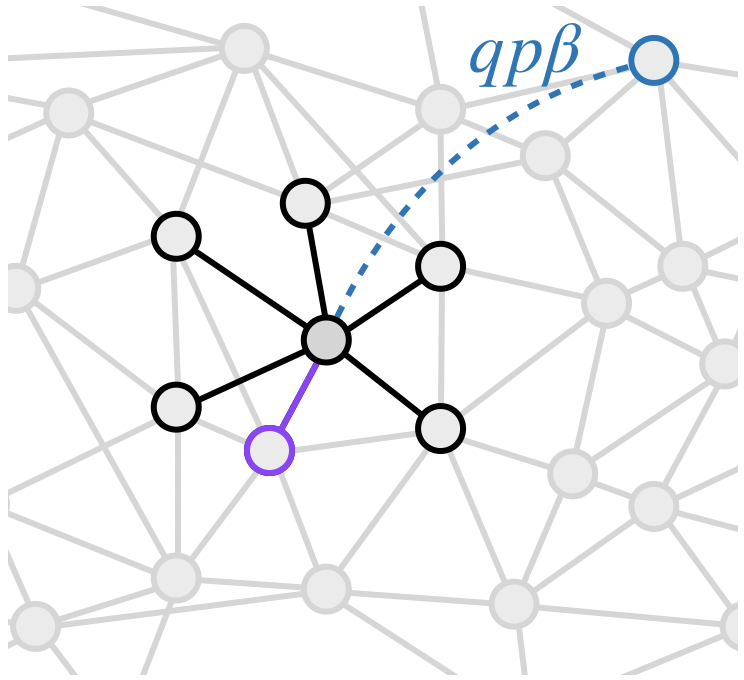
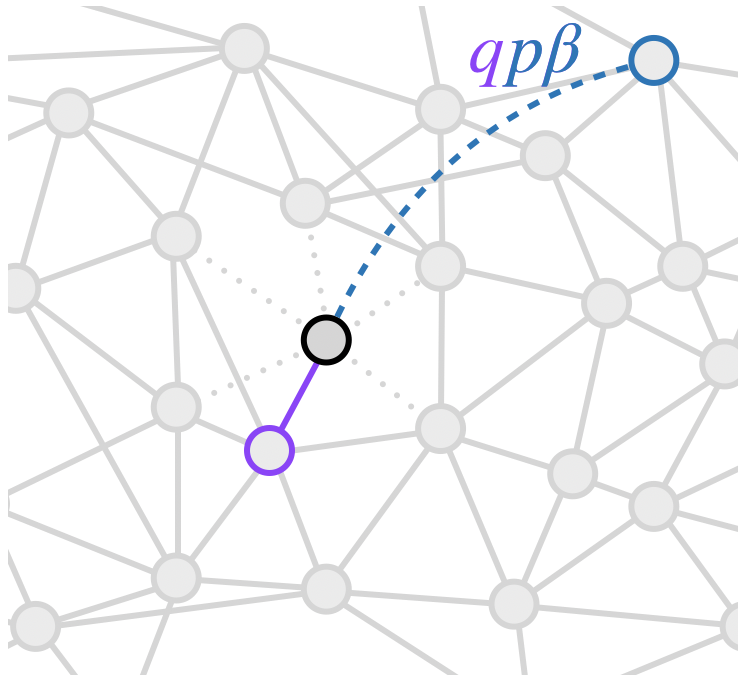
SEIR diagram images

diff --git a/seirsplus/models.py b/seirsplus/models.py
@@ -43,10 +43,10 @@ class SEIRSNetworkModel():
                     (all remaining nodes initialized susceptible)   
     """
 
-    def __init__(self, G, beta, sigma, gamma, xi=0, mu_I=0, mu_0=0, nu=0, p=1,
+    def __init__(self, G, beta, sigma, gamma, xi=0, mu_I=0, mu_0=0, nu=0, p=0,
                     Q=None, beta_D=None, sigma_D=None, gamma_D=None, mu_D=None, 
                     theta_E=0, theta_I=0, phi_E=0, phi_I=0, psi_E=0, psi_I=0, q=0,
-                    initE=0, initI=0, initD_E=0, initD_I=0, initR=0, initF=0):
+                    initE=0, initI=10, initD_E=0, initD_I=0, initR=0, initF=0):
 
         #~~~~~~~~~~~~~~~~~~~~~~~~~~~~~~~~~~~~~~~~
         # Setup Adjacency matrix:
